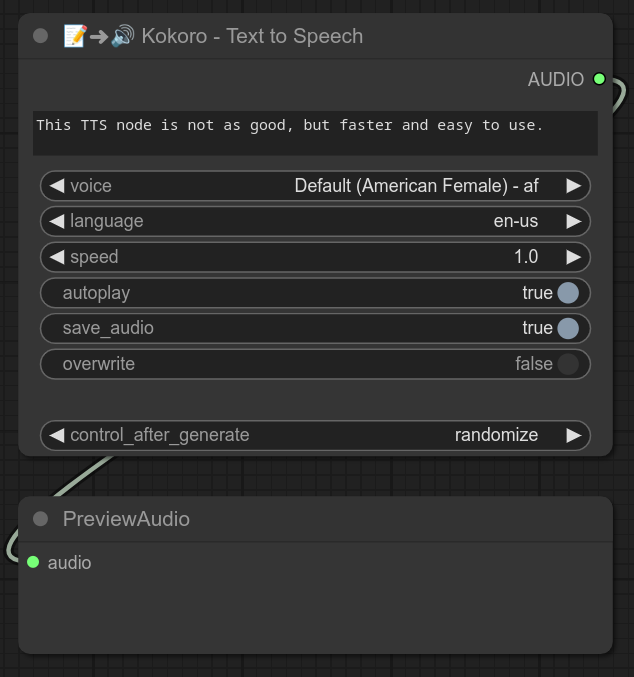
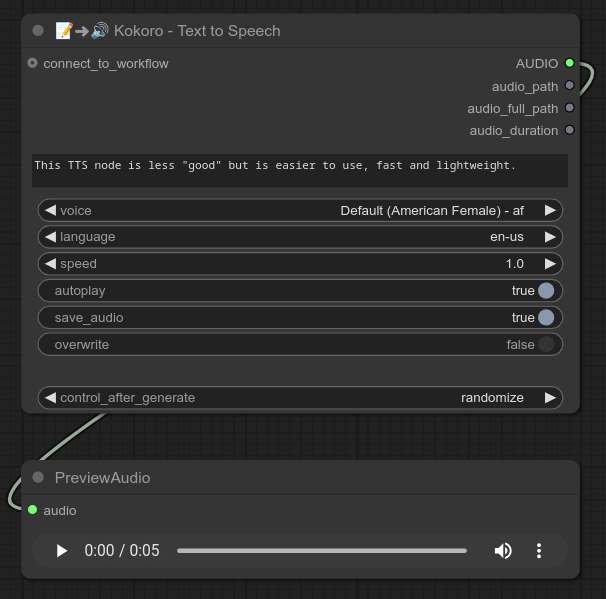
0.68

diff --git a/text_to_speech_kokoro.py b/text_to_speech_kokoro.py
@@ -2,6 +2,10 @@ import os
 import requests
 import random
 
+class Everything(str):
+    def __ne__(self, __value: object) -> bool:
+        return False
+
 VOICE_OPTIONS = {
     "af_bella": "Bella (American Female) - af_bella",
     "af_nicole": "Nicole (American Female) - af_nicole",
@@ -61,16 +65,20 @@ class KokoroTTS:
                 "save_audio": ("BOOLEAN", {"default": True}),
                 "overwrite": ("BOOLEAN", {"default": False}),
                 "seed": ("INT", {"default": 0}),
+            },
+            "optional": {
+                "connect_to_workflow": (Everything("*"), {"forceInput": True}),
             }
         }
 
-    RETURN_TYPES = ("AUDIO",)
+    RETURN_TYPES = ("AUDIO", "STRING", "STRING", "FLOAT")
+    RETURN_NAMES = ("AUDIO", "audio_path", "audio_full_path", "audio_duration")
     FUNCTION = "generate_audio"
     CATEGORY = "Bjornulf/Kokoro"
 
     def generate_audio(self, text: str, voice: str, language: str, speed: float,
                       autoplay: bool, save_audio: bool, 
-                      overwrite: bool, seed: int):
+                      overwrite: bool, seed: int, connect_to_workflow: any = None):
         random.seed(seed)
 
         config = {
@@ -138,8 +146,8 @@ class KokoroTTS:
 
             audio_tensor = torch.from_numpy(samples).unsqueeze(0)
             audio_output = {"waveform": audio_tensor.unsqueeze(0), "sample_rate": sample_rate}
-            return (audio_output,)
+            return (audio_output, save_path, full_path, len(samples) / sample_rate)
 
         except Exception as e:
             print(f"Error in Kokoro TTS: {e}")
-            return ({"waveform": torch.zeros(1, 1, 1), "sample_rate": 22050},)
+            return ({"waveform": torch.zeros(1, 1, 1), "sample_rate": 22050}, "", "", 0.0)

diff --git a/README.md b/README.md
@@ -1,4 +1,4 @@
-# 🔗 Comfyui : Bjornulf_custom_nodes v0.67 🔗
+# 🔗 Comfyui : Bjornulf_custom_nodes v0.68 🔗
 
 A list of 120 custom nodes for Comfyui : Display, manipulate, create and edit text, images, videos, loras, generate characters and more.  
 You can manage looping operations, generate randomized content, trigger logical conditions, pause and manually control your workflows and even work with external AI tools, like Ollama or Text To Speech.  
@@ -362,6 +362,7 @@ cd /where/you/installed/ComfyUI && python main.py
 - **0.65**: ❗Breaking changes : Combine Text inputs are now all optional (PLease remake your nodes, sorry.) Add 6 new nodes : any2int, any2float, load text from folder, load text from path, load lora from path. Also upgraded the Save text node.
 - **0.66**: Add lora hunyuan CIVIT ai + download, add TTS configuration node, edit requirements.txt
 - **0.67**: Add kokoro TTS node.
+- **0.68**: Update kokoro TTS node with connect_to_workflow and same outputs as XTTS.
 
 # 📝 Nodes descriptions
 
